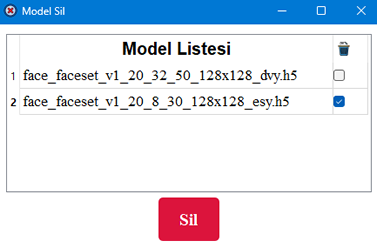
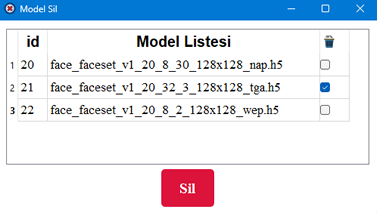
listing and DeleteModel up

diff --git a/src/main/python/services/gui/modelScreens/DeleteModel.py b/src/main/python/services/gui/modelScreens/DeleteModel.py
@@ -2,12 +2,14 @@ import os
 
 from PyQt5 import QtWidgets, QtGui
 from PyQt5.QtCore import Qt
-from PyQt5.QtGui import QIcon, QFont, QPixmap
+from PyQt5.QtGui import QIcon, QFont
 from PyQt5.QtWidgets import QWidget, QVBoxLayout, QComboBox, QPushButton, QHBoxLayout, QTableWidget, QCheckBox, \
-    QMessageBox, QLabel
+    QMessageBox
 
+from src.main.python.PostgreSQL import removeFromDB, listModels
 from src.main.python.services.FeaturesService import getComboBoxFeatures, getButtonFeaturesDelete
-from src.resources.Environments import pngDelete, pathModels, pngTrash
+from src.resources.Environments import pngDelete, pathModels, pngTrash, pathFaceOutputs, pathFaceMaps, pathEyeOutputs, \
+    pathEyeMaps
 
 
 class DeleteModel(QWidget):
@@ -24,15 +26,13 @@ class DeleteModel(QWidget):
         self.window.setStyleSheet("background-color: white;")
         self.window.setWindowIcon(QIcon(pngDelete))
 
-        # ComboBox ayarı
-        # Dizin içindeki .h5 uzantılı dosyaları bulma
-        modelFiles = [f for f in os.listdir(pathModels) if f.endswith('.h5')]
-        # Dosya isimlerinden model adlarını ayırma
-        modelNames = [os.path.splitext(f)[0] + ".h5" for f in modelFiles]
+        models = listModels()
+        modelNames = [model["model_name"] for model in models]
+        modelIds = [model["id"] for model in models]
 
-        mainWith = 440
-        if len(modelFiles) <= 10:
-            mainHeight = 260
+        mainWith = 500
+        if len(modelNames) <= 10:
+            mainHeight = 230
         else:
             mainHeight = 410
 
@@ -47,30 +47,34 @@ class DeleteModel(QWidget):
 
         # QTableWidget oluşturma
         table = QTableWidget()
-        table.setColumnCount(2)
+        table.setColumnCount(3)
         table.setRowCount(len(modelNames))  # tablo satır sayısı combobox seçeneklerinin sayısı kadar olacak
 
-        table.setHorizontalHeaderLabels(["Model Listesi", ""])  # tablo başlığı
-        table.setMinimumSize(420, 180)  # tablonun minimum boyutu
-        table.setMaximumSize(420, 330)  # tablonun maksimum boyutu
+        table.setHorizontalHeaderLabels(["id", "Model Listesi", ""])  # tablo başlığı
+        table.setMinimumSize(480, 180)  # tablonun minimum boyutu width, height
+        table.setMaximumSize(480, 335)  # tablonun maksimum boyutu width, height
+        table.setColumnWidth(0, 20)
+        table.setColumnWidth(1, 360)
+        table.setColumnWidth(2, 20)
         table.horizontalHeaderItem(0).setFont(QFont("Arial", 15, QFont.Bold))
         table.horizontalHeaderItem(0).setTextAlignment(Qt.AlignCenter)
-        table.setColumnWidth(0, 360)
-        table.setColumnWidth(1, 40)
-        table.horizontalHeaderItem(1).setIcon(QIcon(pngTrash))
+        table.horizontalHeaderItem(1).setFont(QFont("Arial", 15, QFont.Bold))
         table.horizontalHeaderItem(1).setTextAlignment(Qt.AlignCenter)
-
-        # table.horizontalHeader().setSectionResizeMode(QtWidgets.QHeaderView.ResizeToContents)
+        table.horizontalHeaderItem(2).setIcon(QIcon(pngTrash))
+        table.horizontalHeaderItem(2).setTextAlignment(Qt.AlignCenter)
+        table.setEditTriggers(QtWidgets.QAbstractItemView.NoEditTriggers)
 
         for i in range(len(modelNames)):
-            # Model ismini QTableWidget'e ekleme
-            item = QtWidgets.QTableWidgetItem(modelNames[i])
-            item.setFont(QFont("Times New Roman", 13))
-            table.setItem(i, 0, item)
+            itemId = QtWidgets.QTableWidgetItem(str(modelIds[i]))
+            itemId.setFont(QFont("Times New Roman", 13))
+            table.setItem(i, 0, itemId)
 
-            # Seçim kutusunu QTableWidget'e ekleme
-            checkbox = QCheckBox()
-            table.setCellWidget(i, 1, checkbox)
+            itemName = QtWidgets.QTableWidgetItem(modelNames[i])
+            itemName.setFont(QFont("Times New Roman", 13))
+            table.setItem(i, 1, itemName)
+
+            itemCheckbox = QCheckBox()
+            table.setCellWidget(i, 2, itemCheckbox)
 
         # Ana layout oluşturma
         mainLayout = QVBoxLayout()
@@ -100,7 +104,7 @@ class DeleteModel(QWidget):
         checkedItems = []
 
         for i in range(table.rowCount()):
-            checkbox = table.cellWidget(i, 1)
+            checkbox = table.cellWidget(i, 2)
             if checkbox.isChecked():
                 checkedItems.append(i)
 
@@ -119,10 +123,23 @@ class DeleteModel(QWidget):
             messageBox.exec_()
             if messageBox.clickedButton() == buttonY:
                 for i in reversed(checkedItems):
-                    modelName = table.item(i, 0).text()
-                    filePath = os.path.join(pathModels, modelName)
-                    if os.path.exists(filePath):
-                        os.remove(filePath)
+                    modelId: int = table.item(i, 0).text()
+                    modelName: str = table.item(i, 1).text()
+                    modelPath: str = os.path.join(pathModels, modelName)
+                    if modelName.__contains__("face_"):
+                        outputsPath: str = os.path.join(pathFaceOutputs, modelName.replace(".h5", ".txt"))
+                        mapsPath: str = os.path.join(pathFaceMaps, str("ResultsMap-" + modelName.replace(".h5", ".pkl")))
+                    else:
+                        outputsPath: str = os.path.join(pathEyeOutputs, modelName.replace(".h5", ".txt"))
+                        mapsPath: str = os.path.join(pathEyeMaps, str("ResultsMap-" + modelName.replace(".h5", ".pkl")))
+                    # removes
+                    removeFromDB(modelId)
+                    if os.path.exists(modelPath):
+                        os.remove(modelPath)
+                    if os.path.exists(outputsPath):
+                        os.remove(outputsPath)
+                    if os.path.exists(mapsPath):
+                        os.remove(mapsPath)
                     combo.removeItem(combo.findText(modelName))
                     table.removeRow(i)
                 self.mainWidget.updateModelList()

diff --git a/src/main/Application.py b/src/main/Application.py
@@ -6,6 +6,7 @@ from PyQt5.QtGui import QIcon
 from PyQt5.QtWidgets import QWidget, QPushButton, QVBoxLayout, QLabel, QLineEdit, QHBoxLayout, QComboBox, \
     QMessageBox
 
+from src.main.python.PostgreSQL import listModels
 from src.main.python.services.FeaturesService import getMsgBoxFeatures, getLabelFeatures, \
     getButtonFeatures, getComboBoxFeatures, getTextBoxSuccessRateFeatures, fontTextBox
 from src.main.python.services.gui.faceScreens.DeleteFaceScreen import DeleteFace
@@ -112,15 +113,12 @@ class MainWidget(QWidget):
         ###########
         # Test etiketi
         labelTest = getLabelFeatures(QLabel('Test'), isUseFont=True, isUseSecondFont=False)
-        # ComboBox ayarı
-        # Dizin içindeki .h5 uzantılı dosyaları bulma
-        modelFiles = [f for f in os.listdir(pathModels) if f.endswith('.h5')]
-        # Dosya isimlerinden model adlarını ayırma
-        modelNames = ['Model Seçiniz'] + [os.path.splitext(f)[0] + ".h5" for f in modelFiles]
+
         # ComboBox oluşturma ve model isimlerini ekleme
         self.comboModel = getComboBoxFeatures(QComboBox(self))
-        self.comboModel.addItems(modelNames)
-        self.comboModel.currentIndexChanged.connect(lambda index: self.onComboboxSelection(self.comboModel.itemText(index)))
+        self.updateModelList()
+        self.comboModel.currentIndexChanged.connect(
+            lambda index: self.onComboboxSelection(self.comboModel.itemText(index)))
         # Test için butonlar
         btnTestCamera = getButtonFeatures(QPushButton(self), pngCamera)
         btnTestCamera.clicked.connect(self.testCameraWidget.testCameraScreen)
@@ -151,7 +149,6 @@ class MainWidget(QWidget):
         labelSuccessRate.setEnabled(False)
         labelSuccessRate.setFont(fontTextBox)
         labelSuccessRate.setStyleSheet("background-color: white; color: black;")
-
 
         labelSuccessRate.setAlignment(Qt.AlignLeft)
         layoutH.addWidget(labelSuccessRate)
@@ -228,7 +225,8 @@ class MainWidget(QWidget):
             rateLimit = 35
             if modelName.__eq__("Model Seçiniz") or int(sRate) < int(rateLimit):
                 if modelName.__eq__("Model Seçiniz"):
-                    getMsgBoxFeatures(QMessageBox(self), pngWarningBox, "Uyarı", "Lütfen bir model seçin.", QMessageBox.Warning,
+                    getMsgBoxFeatures(QMessageBox(self), pngWarningBox, "Uyarı", "Lütfen bir model seçin.",
+                                      QMessageBox.Warning,
                                       QMessageBox.Ok, isQuestion=False).exec_()
                 if int(sRate) < int(rateLimit):
                     getMsgBoxFeatures(QMessageBox(self), pngWarningBox, "Uyarı",
@@ -290,16 +288,14 @@ class MainWidget(QWidget):
             event.ignore()
 
     def updateModelList(self):
-        # Dosya isimlerini yeniden elde etme
-        modelFiles = [f for f in os.listdir(pathModels) if f.endswith('.h5')]
-        # Dosya isimlerinden model adlarını ayırma
-        modelNames = ['Model Seçiniz'] + [os.path.splitext(f)[0] + ".h5" for f in modelFiles]
+        models = listModels()
+        modelNames = ["Model Seçiniz"] + [model["model_name"] for model in models]
         # ComboBox öğesi güncelleme
         self.comboModel.clear()
         self.comboModel.addItems(modelNames)
 
     def showWarn(self):
-        getMsgBoxFeatures(QMessageBox(self), pngInfoBox,"Kullanılacak Model ve Başarı Oranı",
+        getMsgBoxFeatures(QMessageBox(self), pngInfoBox, "Kullanılacak Model ve Başarı Oranı",
                           self.selectedModel + "\nBaşarı oranı " + str(
                               self.textBoxSuccessRate.text()) + " olarak belirlenmiştir.",
                           QMessageBox.Information, QMessageBox.Ok, isQuestion=False).exec_()

diff --git a/src/main/python/PostgreSQL.py b/src/main/python/PostgreSQL.py
@@ -13,7 +13,9 @@ def createTable(modelName: str, trainPercentage: float, dropoutRate: float):
 
     cur = conn.cursor()
     # face_faceset_v1_20_4_1_128x128_xbc
-    mType, mName, mVersion, mDataCount, mBatchSize, mEpochsCount, mInputSize, mRandomString = modelName.replace(".h5", "").split("_")
+    mType, mName, mVersion, mDataCount, mBatchSize, mEpochsCount, mInputSize, mRandomString = modelName.replace(".h5",
+                                                                                                                "").split(
+        "_")
 
     cur.execute(
         "INSERT INTO models (type, name, version, data_count, batch_size, epochs_count, input_size, random_string, dropout_rate, data_train_percentage, data_validation_percentage) "
@@ -38,7 +40,49 @@ def createTable(modelName: str, trainPercentage: float, dropoutRate: float):
     return affectedId
 
 
-def executeSql(sql: str, params: tuple):
+def removeFromDB(modelId: int):
+    sql: str = "DELETE FROM attendance WHERE model_id = " + modelId + "; DELETE FROM statistics WHERE model_id = " + modelId + "; DELETE FROM models_data WHERE models_id = " + modelId + "; DELETE FROM models_results WHERE models_id = " + modelId + "; DELETE FROM models WHERE id = " + modelId + ";"
+    conn = psycopg2.connect(database=dbName, user=dbUser, password=dbPass, host=dbHost, port=dbPort)
+    cur = conn.cursor()
+    cur.execute(sql)
+
+    conn.commit()
+    conn.close()
+
+
+def listModels():
+    sql = "SELECT id, type, name, version, data_count, batch_size, epochs_count, input_size, random_string, dropout_rate, data_train_percentage, data_validation_percentage, create_date_time FROM models"
+    conn = psycopg2.connect(database=dbName, user=dbUser, password=dbPass, host=dbHost, port=dbPort)
+    cur = conn.cursor()
+    cur.execute(sql)
+    rows = cur.fetchall()
+    conn.close()
+    models = []
+    for row in rows:
+        model = {
+            "id": row[0],
+            "type": row[1],
+            "name": row[2],
+            "version": row[3],
+            "data_count": row[4],
+            "batch_size": row[5],
+            "epochs_count": row[6],
+            "input_size": row[7],
+            "random_string": row[8],
+            "dropout_rate": row[9],
+            "data_train_percentage": row[10],
+            "data_validation_percentage": row[11],
+            "create_date_time": row[12],
+            "model_name": row[1] + "_" + row[2] + "_v" + str(row[3]) + "_" + str(row[4]) + "_" + str(
+                row[5]) + "_" + str(row[6]) + "_" + row[
+                              7] + "_" + row[8] + ".h5"
+        }
+        models.append(model)
+
+    return models
+
+
+def executeSql(sql: str, params: tuple = ()):
     conn = psycopg2.connect(database=dbName, user=dbUser, password=dbPass, host=dbHost,
                             port=dbPort)
 

diff --git a/README.md b/README.md
@@ -20,7 +20,8 @@
 
 ### Model isimlendirmesi:
 
-| Veriseti Türü | Veriseti Adı | Veriseti Versiyonu | Veri Çeşit Sayısı | Batch Boyutu | Epoch Sayısı | Girdi Boyutu (GxY) | 3 Karakterli Rastgele Dize | Model Uzantısı | Elde Edilen Model İsmi                  |
-|---------------|--------------|--------------------|-------------------|--------------|--------------|--------------------|----------------------------|----------------|-----------------------------------------|
-| face          | faceset      | v1                 | 20                | 32           | 50           | 128x128            | dvy                        | .h5            | face_faceset_v1_20_32_50_128x128_dvy.h5 |
-| face          | faceset      | v1                 | 20                | 8            | 30           | 128x128            | esy                        | .h5            | face_faceset_v1_20_8_30_128x128_esy.h5  |
+| Veriseti Türü | Veriseti Adı | Veriseti Versiyonu | Veri Çeşit Sayısı | Batch Boyutu | Epoch Sayısı | Girdi Boyutu (GxY) | 3 Karakterli Rastgele Dize | Model Uzantısı | Elde Edilen Model İsmi                 |
+|---------------|--------------|--------------------|-------------------|--------------|--------------|--------------------|----------------------------|----------------|----------------------------------------|
+| face          | faceset      | v1                 | 20                | 8            | 30           | 128x128            | nap                        | .h5            | face_faceset_v1_20_8_30_128x128_nap.h5 |
+| face          | faceset      | v1                 | 20                | 32           | 3            | 128x128            | tga                        | .h5            | face_faceset_v1_20_32_3_128x128_tga.h5 |
+| face          | faceset      | v1                 | 20                | 8            | 2            | 128x128            | wep                        | .h5            | face_faceset_v1_20_8_2_128x128_wep.h5  |
